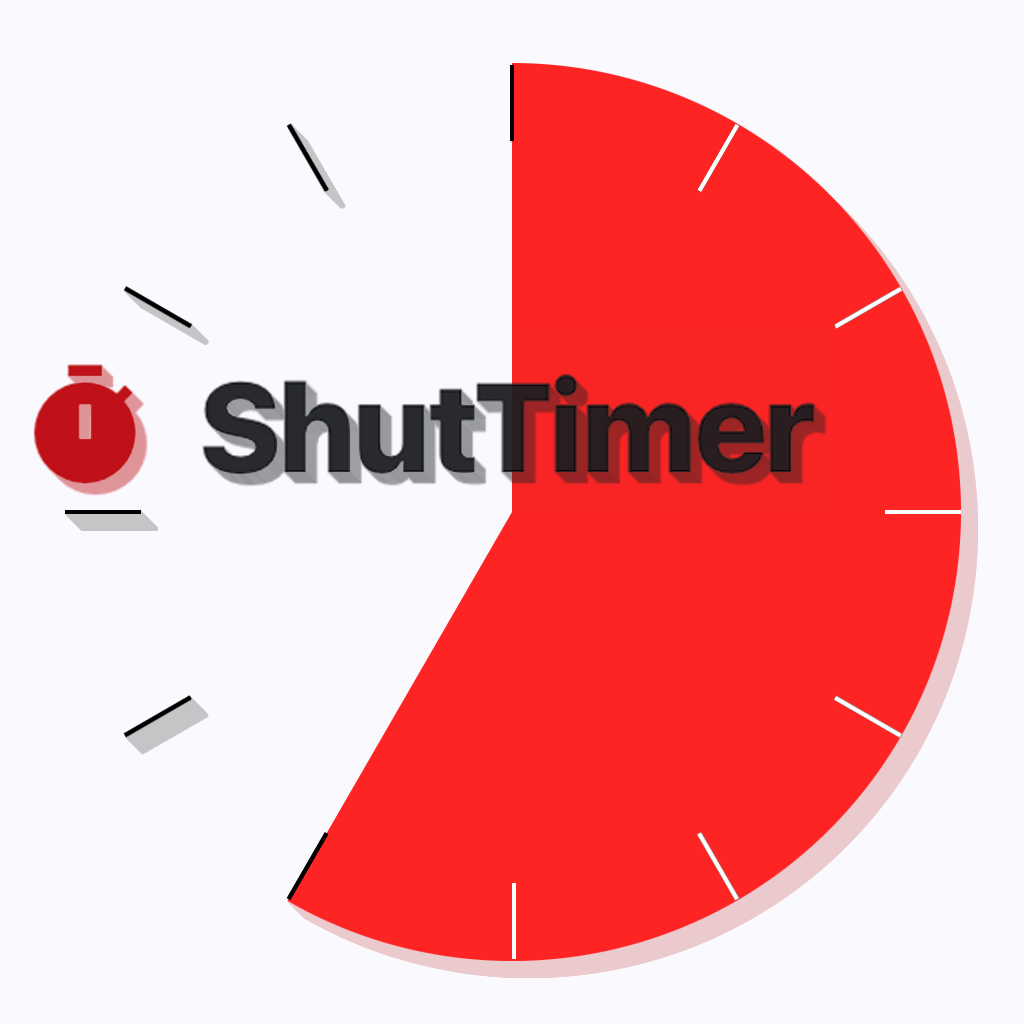
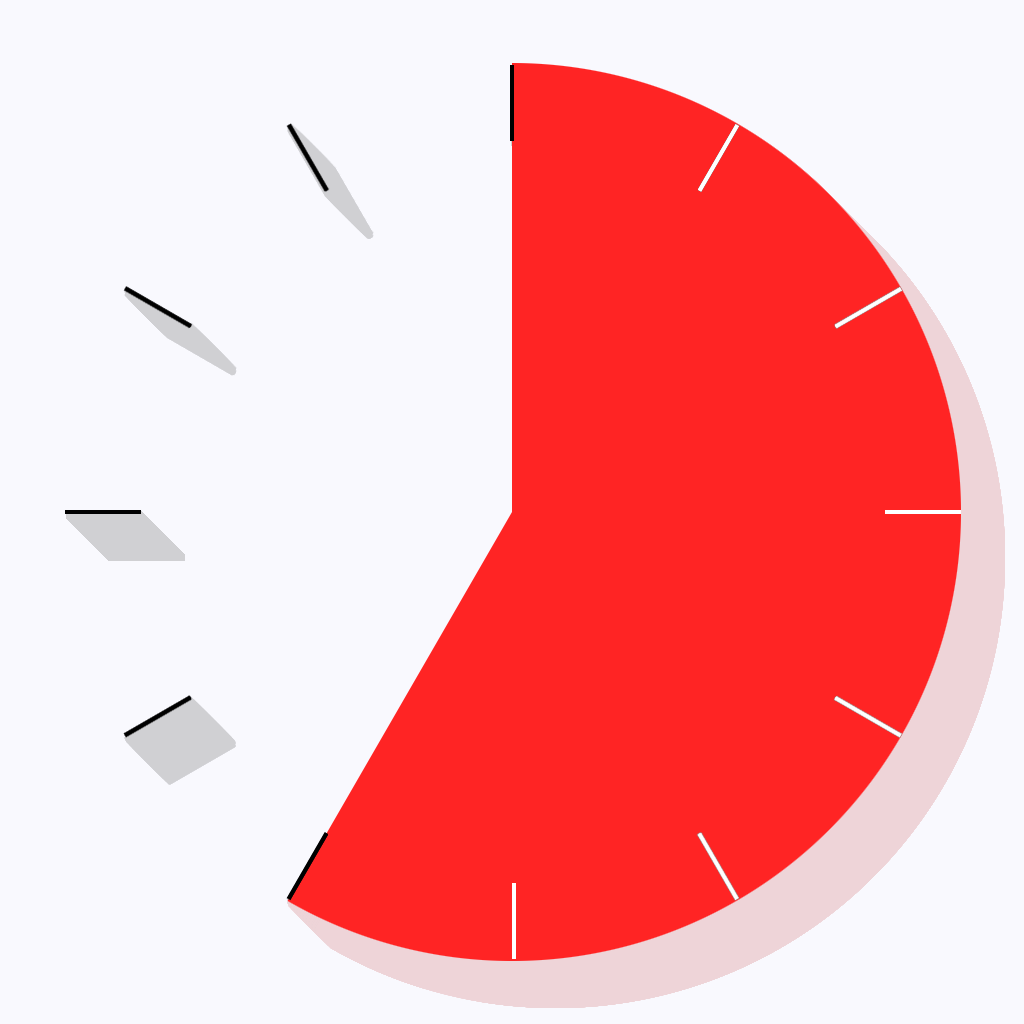
chore: v1.5 브랜드 빨강 통일 (#ff2424) + 아이콘 재교체 (제출판)
- theme.ts / settings.ts: lightColors·darkColors primary + COLOR_PRESETS red 통일
- OnboardingScreen / SplashScreen: 로고 색상 브랜드 통일
- app.json: expo-notifications tint color #bc000a → #ff2424
- assets/icon.png: 브랜드 빨강 톤 반영 아이콘 재교체

영향: 타이머 다이얼/Play·Pause, 온보딩/스플래시 로고, Android 알림 tint, 색상 프리셋 "빨강"

diff --git a/src/screens/OnboardingScreen.tsx b/src/screens/OnboardingScreen.tsx
@@ -432,7 +432,7 @@ export default function OnboardingScreen({ navigation }: Props) {
               <View key={idx} style={styles.slide}>
                 {/* 로고 — 부드럽게 fade-in (사이즈 +5px) */}
                 <Animated.View style={{ marginBottom: 24, opacity: welcomeLogoOpacity }}>
-                  <MaterialIcons name="alarm" size={61} color="#dc3535" />
+                  <MaterialIcons name="alarm" size={61} color="#ff2424" />
                 </Animated.View>
                 {/* 텍스트 — 줄별 좌→우 reveal */}
                 <View style={{ alignItems: 'center' }}>

diff --git a/src/constants/theme.ts b/src/constants/theme.ts
@@ -13,7 +13,7 @@ export type ThemeColors = {
 };
 
 export const lightColors: ThemeColors = {
-  primary: '#bc000a',
+  primary: '#ff2424',
   background: '#f9f9fe',
   surfaceContainerLow: '#f3f3f8',
   surfaceContainerLowest: '#ffffff',
@@ -27,7 +27,7 @@ export const lightColors: ThemeColors = {
 };
 
 export const darkColors: ThemeColors = {
-  primary: '#bc000a',
+  primary: '#ff2424',
   background: '#111318',
   surfaceContainerLow: '#1d2024',
   surfaceContainerLowest: '#282c31',

diff --git a/src/screens/SplashScreen.tsx b/src/screens/SplashScreen.tsx
@@ -49,7 +49,7 @@ export default function SplashScreen({ navigation }: Props) {
     <View style={styles.container}>
       <Animated.View style={[styles.center, { opacity: fadeAnim }]}>
         <View style={styles.titleRow}>
-          <MaterialIcons name="alarm" size={36} color="#dc3535" />
+          <MaterialIcons name="alarm" size={36} color="#ff2424" />
           <Text style={styles.title}>ShutTimer</Text>
         </View>
       </Animated.View>

diff --git a/src/constants/settings.ts b/src/constants/settings.ts
@@ -18,7 +18,7 @@ export type MissionDuration = typeof MISSION_DURATION_OPTIONS[number];
 export type DialType = 'classic' | 'digital';
 
 export const COLOR_PRESETS = [
-  { id: 'red', color: '#bc000a' },
+  { id: 'red', color: '#ff2424' },
   { id: 'orange', color: '#be3816' },
   { id: 'pink', color: '#c2185b' },
   { id: 'green', color: '#00796b' },
